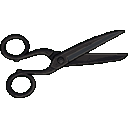
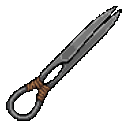
嚴湘改拿漢代剪刀；無雙模式改成隨機出王、十階

Changed region(s): [[0.0, 0.0312, 1.0, 0.9688]]

diff --git a/scripts/build_boss.py b/scripts/build_boss.py
@@ -32,7 +32,7 @@ for k,nm,stg,pos,sc,flag in BOSS:
         return a
     base_c=[ST,C('boss_stage',stg)]
     pg=lambda t:{"id":f'{eid}-t{t}',"name":f'第{t}輪',"conditions":base_c+[C('boss_round',t,'gte')],"actor":"npc","sprite":s,"movement":"approach","approach":20,"direction":"left","solid":True,"trigger":"touch","once":False,"actions":acts(t)}
-    pages=[pg(t) for t in range(2,7)]
+    pages=[pg(t) for t in range(2,11)]
     if flag: pages.append({"id":f'{eid}-down',"name":"倒下","conditions":base_c+[C(flag+'_down','true')],"actor":"none","sprite":s,"movement":"still","solid":False,"trigger":"action","once":False,"actions":[]})
     ops.append({"kind":"event","id":eid,"patch":{"name":nm+"（Boss）","x":x,"y":y,"actor":"npc","kind":"monster","sprite":s,"movement":"approach","approach":20,"direction":"left","solid":True,"trigger":"touch","once":False,"conditions":base_c+[],"actions":acts(1),"pages":pages,
         "badge":{"icon":"crown","color":"#d23c3c"}}})
@@ -42,9 +42,14 @@ def dir_(eid,nm,conds,acts):
 FX=lambda p:[z(id=p+'-snd',kind="sound",audio={"url":"","sound":"roar","volume":0.9}),z(id=p+'-shk',kind="screen",screen={"effect":"shake","strength":0.6,"durationMs":700,"wait":False})]
 SAY=lambda p,t:z(id=p+'-say',kind="dialogue",text=t,speaker="narrator",presentation="text")
 for stg,gap,line in [(0,40,'虎牢關前，劉備、關羽、張飛三人一起殺到。'),(2,50,'董卓現身。'),(4,60,'曹操領兵來到濮陽。'),(6,70,'紀靈率袁術軍殺到。'),(8,80,'下邳城外，曹操親自來了。')]:
-    p=f'dir-{stg+1}'; dir_(p,f'Boss 出場 {stg+1}',[C('boss_stage',stg),C('bk',gap,'gte')],[V(p+'-v','boss_stage',stg+1)]+FX(p)+[SAY(p,line)])
+    p=f'dir-{stg+1}'; dir_(p,f'Boss 出場 {stg+1}',[C('boss_round',1),C('boss_stage',stg),C('bk',gap,'gte')],[V(p+'-v','boss_stage',stg+1)]+FX(p)+[SAY(p,line)])
 dir_('dir-sy','三英全倒',[C('boss_stage',1),C('sanying_down',3,'gte')],[V('dsy-1','boss_stage',2),V('dsy-2','bk',0),V('dsy-3','sanying_down',0),V('dsy-4','liu_down','false'),V('dsy-5','guan_down','false'),V('dsy-6','zhang_down','false')])
-dir_('dir-loop','無雙下一輪',[C('boss_stage',10)],[V('dl-1','boss_stage',0),V('dl-2','bk',0),V('dl-3','boss_round',1,'add')]+FX('dl')+[SAY('dl','無雙！五員大將捲土重來，這一輪更強。')])
+dir_('dir-loop','無雙下一輪',[C('boss_stage',10)],[V('dl-1','boss_stage',0),V('dl-2','bk',0),V('dl-3','boss_round',1,'add')]+FX('dl')+[SAY('dl','五員大將都倒下了。無雙開始，接下來的每一位都更強。')])
+NAMES=[(1,'劉備、關羽、張飛'),(3,'董卓'),(5,'曹操'),(7,'紀靈'),(9,'下邳的曹操')]
+dir_('dir-musou','無雙 隨機出王',[C('boss_round',2,'gte'),C('boss_stage',0),C('bk',40,'gte')],
+  [z(id='dm-r',kind="random",random={"min":1,"max":5,"options":[{"id":f"dm-o{i}","label":nm,"from":i+1,"to":i+1,"actions":[V(f'dm-v{i}','boss_stage',stg),SAY(f'dm{i}',f'無雙！{nm}殺到，比上一位更強。')]} for i,(stg,nm) in enumerate(NAMES)]})]+FX('dm'))
+for stg in (2,4,6,8):
+    dir_(f'dir-next{stg}',f'無雙 下一位 {stg}',[C('boss_round',2,'gte'),C('boss_stage',stg)],[V(f'dn{stg}-1','boss_stage',0),V(f'dn{stg}-2','bk',0),V(f'dn{stg}-3','boss_round',1,'add')])
 RESET=lambda p:[V(p+'-r1','boss_stage',0),V(p+'-r2','bk',0),V(p+'-r3','boss_round',1),V(p+'-r4','sanying_down',0),V(p+'-r5','liu_down','false'),V(p+'-r6','guan_down','false'),V(p+'-r7','zhang_down','false')]
 ev={e['id']:e for e in m['events']}
 # init-score
@@ -74,7 +79,7 @@ G=[{"text":t,"eventId":eid,"conditions":c} for t,eid,c in [
  ('濮陽：曹操來了，他會架起防守','boss-caocao1',[C('boss_stage',5)]),
  ('淮北：紀靈率袁術軍殺到','boss-jiling',[C('boss_stage',7)]),
  ('下邳決戰：曹操親至','boss-caocao2',[C('boss_stage',9)]),
- ('無雙模式：五員大將輪番再戰，一輪比一輪強','reaper',[C('boss_round',2,'gte')])]]
+ ('無雙模式：五員大將隨機殺到，一位比一位強','reaper',[C('boss_round',2,'gte')])]]
 old=[g for g in m.get('guidance',[]) if g['eventId'] not in [x['eventId'] for x in G]]
 ops.append({"kind":"settings","patch":{"guidance":G+old}})
 json.dump(ops,open('ops_boss.json','w'),ensure_ascii=False)

diff --git a/scripts/gen_xiang_han.py b/scripts/gen_xiang_han.py
@@ -1,0 +1,32 @@
+import base64,json,os,urllib.request
+from concurrent.futures import ThreadPoolExecutor
+KEY=[l.split("=",1)[1].strip().strip('"') for l in open(os.path.expanduser("~/.bashrc")) if "GEMINI_IMAGE_KEY=" in l][0]
+URL="https://ching-tech.ddns.net/gemini-web/v1beta/models/gemini-3.1-flash-image-preview:generateContent"
+b64=lambda f: base64.b64encode(open(f,"rb").read()).decode()
+SC=("ancient Han-dynasty iron spring shears exactly like image 2: two long straight pointed iron blades that are joined ONLY at the back end by one single round iron loop bent from the same bar (the loop is the spring), "
+    "brown cord wrapped where the loop meets the blades; NO pivot screw in the middle, NO finger holes, NO two rings.")
+JOBS={
+ "xiang_han":(["sd/xiang_raw.png","han_scissors.png","sd/weixu_side1b_raw.png"],
+   "Image 1 is Yan Xiang, a chibi pixel-art game sprite: redraw the SAME woman in the SAME chunky pixel-art style and 2-heads-tall proportions, same face, tea-brown eyes, dark brown hair bun with a wooden hairpin, steel-blue cross-collar robe and darker blue skirt. "
+   "Change only two things. (1) She holds in her right hand "+SC+" The blades point forward and down. "
+   "(2) Pose: copy the POSE and facing of image 3 exactly (image 3 is only a pose reference, do not copy that man): three-quarter side view, her nose and face pointing to the right edge of the image, her whole figure turned about 45 degrees toward the RIGHT side of the image: face, eyes, chest, hips AND BOTH FEET point right; both shoes' toes point to the RIGHT, never left; walking toward the right. "
+   "Whole body visible with feet, centered, fills about 80% of the image height. Background: one flat solid pure green #00FF00 everywhere, no ground shadow, no other objects, no text."),
+ "w-xiang_han":(["han_scissors.png"],
+   "Single weapon item sprite for an RPG, pixel art, crisp hard pixel edges, limited palette, 1-pixel dark outline: "+SC+
+   " Drawn diagonally: the pointed blade tips at the TOP-RIGHT, the round loop at the BOTTOM-LEFT. The whole tool visible, centered, nothing else. Background: one flat solid pure green #00FF00 everywhere, no shadow, no text."),
+}
+def job(k):
+    refs,txt=JOBS[k]
+    parts=[{"inlineData":{"mimeType":"image/png","data":b64(f)}} for f in refs]+[{"text":txt}]
+    body={"contents":[{"role":"user","parts":parts}],"generationConfig":{"responseModalities":["IMAGE"],"imageConfig":{"aspectRatio":"1:1"}}}
+    for t in range(3):
+        try:
+            r=urllib.request.Request(URL,data=json.dumps(body).encode(),method="POST",headers={"x-goog-api-key":KEY,"Content-Type":"application/json"})
+            j=json.loads(urllib.request.urlopen(r,timeout=450).read())
+            for p in j["candidates"][0]["content"]["parts"]:
+                d=p.get("inlineData") or p.get("inline_data")
+                if d: open(f"sd/{k}_raw.png","wb").write(base64.b64decode(d["data"])); print(k,"OK",flush=True); return
+            print(k,"no image",flush=True)
+        except Exception as e: print(k,"ERR",e,flush=True)
+import sys
+with ThreadPoolExecutor(2) as ex: list(ex.map(job,sys.argv[1:] or JOBS))

diff --git a/scripts/mcp_call.py b/scripts/mcp_call.py
@@ -5,7 +5,13 @@ H={'Authorization':'Bearer '+K,'Content-Type':'application/json','Accept':'appli
 def post(body,sid=None):
     h=dict(H); 
     if sid: h['Mcp-Session-Id']=sid
-    r=urllib.request.urlopen(urllib.request.Request(U,data=json.dumps(body).encode(),headers=h,method='POST'),timeout=300)
+    import time
+    for t in range(8):
+        try:
+            r=urllib.request.urlopen(urllib.request.Request(U,data=json.dumps(body).encode(),headers=h,method='POST'),timeout=300); break
+        except urllib.error.HTTPError as e:
+            if e.code!=429 or t==7: raise
+            time.sleep(30)
     raw=r.read().decode(); sid2=r.headers.get('Mcp-Session-Id') or sid
     if raw.lstrip().startswith('event:') or 'data:' in raw[:20]:
         raw='\n'.join(l[5:] for l in raw.splitlines() if l.startswith('data:'))

diff --git a/scripts/boss_cards.py b/scripts/boss_cards.py
@@ -12,8 +12,8 @@ B={ # id: name, hp, atk, def, specials
  'jiling':('紀靈',3000,130,14,[{"kind":"double","name":"三尖連斬","every":3},{"kind":"enrage","name":"死戰","below":30,"power":1.5}]),
  'caocao2':('曹操・下邳',5000,170,18,[{"kind":"strike","name":"水淹下邳","every":4,"power":2},{"kind":"heal","name":"重整","below":30,"amount":800,"times":1},{"kind":"enrage","name":"決戰","below":20,"power":1.6}]),
 }
-NUM=['','貳','參','肆','伍','陸']
-todo=[(k,t) for k in B for t in range(1,7)]
+NUM=['','貳','參','肆','伍','陸','柒','捌','玖','拾']
+todo=[(k,t) for k in B for t in range(7,11)]
 if len(sys.argv)>1: todo=[(sys.argv[1],int(sys.argv[2]))]
 y=0
 for k,t in todo:

diff --git a/README.md b/README.md
@@ -14,7 +14,7 @@
 | 貂蟬 | 魔法彈，命中會炸開 | 紫玉法器 | MP 最多 |
 | 呂荃 | 射箭，射程 7 格 | 小木弓 | 射程最遠 |
 | 呂布 | 斬擊，技能補中距離突刺 | 方天畫戟 | 攻擊最高 |
-| 嚴湘 | 斬擊 | 鐵剪刀 | 跑最快 |
+| 嚴湘 | 斬擊 | 漢代剪刀（前端兩片刃、尾端一個鐵環當彈簧） | 跑最快 |
 
 每個人有自己的等級、成長曲線和四個技能，2、4、6、8 級各學一招。
 
@@ -25,7 +25,7 @@
 - 方向鍵或 WASD 移動，J 或空白鍵攻擊，K 衝刺，H 喝補血藥水，G 喝回氣丹，1 到 4 放技能。
 - 場上每 20 秒會冒出一顆回氣丹（最多 4 顆），碰到就收進背包。
 - 打倒敵人拿戰功。分數到 20、50、100 會加入新兵種，再往上所有敵人會換成更強、體型更大的版本。
-- 照《仙泉·香布纏》的時間線，每隔一段戰功會出一位 Boss：三英（劉備、關羽、張飛）、董卓、濮陽的曹操、淮北的紀靈、下邳的曹操。五位打完進入無雙模式，五員大將輪番再來，每一輪血更多、打人更痛，看能撐到幾級（等級上限 99）。
+- 照《仙泉·香布纏》的時間線，每隔一段戰功會出一位 Boss：三英（劉備、關羽、張飛）、董卓、濮陽的曹操、淮北的紀靈、下邳的曹操。五位依序打完進入無雙模式，之後每次隨機殺出其中一位，一位比一位強（最多十階，血量上限 9999、攻擊一直往上），看能撐到幾級（等級上限 99）。
 - 陣亡會被送回營地，呂布的女親兵成素會結算分數，可以再戰或換角色上陣。
 - 大廳可以選單人或連線。連線時看得到其他玩家、可以聊天，怪物、分數和存檔各算各的。
 
